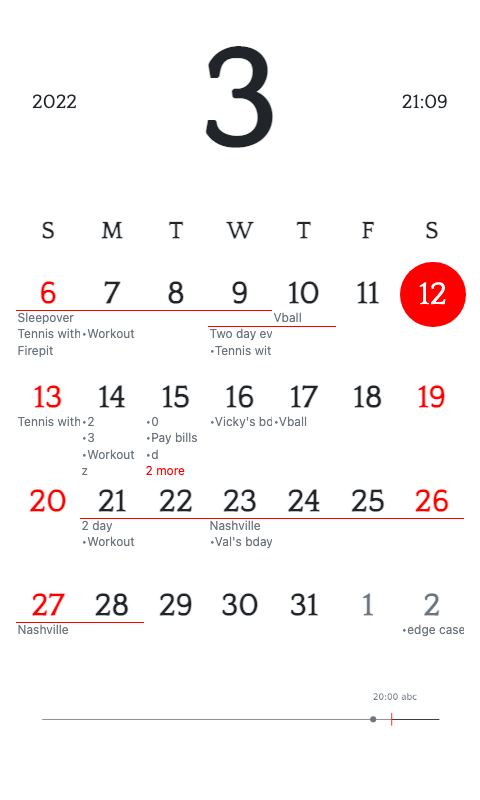
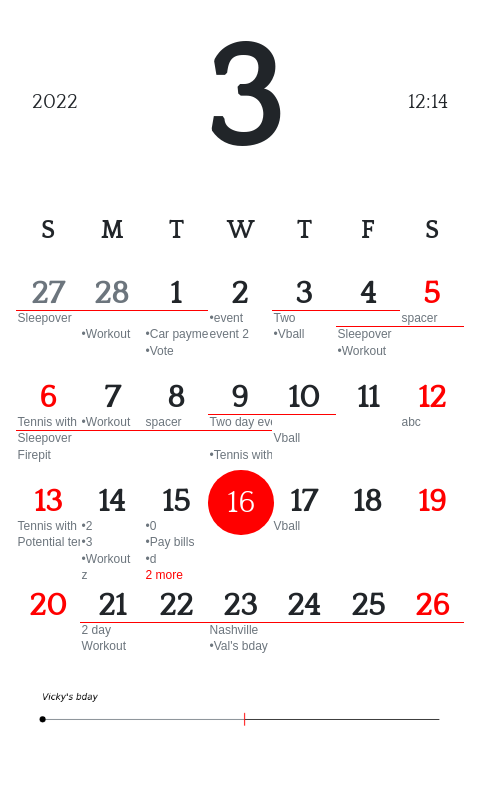
commit to small display

diff --git a/render/calendar.html b/render/calendar.html
@@ -13,7 +13,7 @@
              style="display:flex;justify-content:space-between;">
             <div class="time-info">2022</div>
             <h3 class="month font-weight-bold mb-0 text-uppercase">3</h3>
-            <div class="time-info">21:09</div>
+            <div class="time-info">12:14</div>
         </div>
         <!-- Days of week -->
         <ol class="day-names list-unstyled text-center"><li class="font-weight-bold text-uppercase">S</li>
@@ -25,33 +25,65 @@
 <li class="font-weight-bold text-uppercase">S</li>
 </ol>
         <!-- Calendar and events -->
-        <ol class="days list-unstyled"><li><div class="date" style="color:red;">6</div>
+        <ol class="days list-unstyled"><li><div class="date text-muted">27</div>
 <div class="event" style="border-top:1px solid red;">Sleepover</div>
+</li>
+<li><div class="date text-muted">28</div>
+<div class="event text-hidden" style="border-top:1px solid red;">Sleepover</div>
+<div class="event text-muted">•Workout</div>
+</li>
+<li><div class="date">1</div>
+<div class="event text-hidden" style="border-top:1px solid red;">Sleepover</div>
+<div class="event">•Car payment</div>
+<div class="event">•Vote</div>
+</li>
+<li><div class="date">2</div>
+<div class="event">•event</div>
+<div class="event">event 2</div>
+</li>
+<li><div class="date">3</div>
+<div class="event" style="border-top:1px solid red;">Two</div>
+<div class="event">•Vball</div>
+</li>
+<li><div class="date">4</div>
+<div class="event text-hidden" style="border-top:1px solid red;">Two</div>
+<div class="event" style="border-top:1px solid red;">Sleepover</div>
+<div class="event">•Workout</div>
+</li>
+<li><div class="date" style="color:red;">5</div>
+<div class="event hide-all">spacer</div>
+<div class="event text-hidden" style="border-top:1px solid red;">Sleepover</div>
+</li>
+<li><div class="date" style="color:red;">6</div>
 <div class="event">Tennis with Chloe</div>
+<div class="event" style="border-top:1px solid red;">Sleepover</div>
 <div class="event">Firepit</div>
 </li>
 <li><div class="date">7</div>
-<div class="event text-hidden" style="border-top:1px solid red;">Sleepover</div>
 <div class="event">•Workout</div>
+<div class="event text-hidden" style="border-top:1px solid red;">Sleepover</div>
 </li>
 <li><div class="date">8</div>
+<div class="event hide-all">spacer</div>
 <div class="event text-hidden" style="border-top:1px solid red;">Sleepover</div>
 </li>
 <li><div class="date">9</div>
-<div class="event text-hidden" style="border-top:1px solid red;">Sleepover</div>
 <div class="event" style="border-top:1px solid red;">Two day event</div>
+<div class="event text-hidden" style="border-top:1px solid red;">Sleepover</div>
 <div class="event">•Tennis with flake</div>
 </li>
 <li><div class="date">10</div>
-<div class="event">Vball</div>
 <div class="event text-hidden" style="border-top:1px solid red;">Two day event</div>
+<div class="event">Vball</div>
 </li>
 <li><div class="date">11</div>
 </li>
-<li><div class="datecircle">12</div>
+<li><div class="date" style="color:red;">12</div>
+<div class="event">abc</div>
 </li>
 <li><div class="date" style="color:red;">13</div>
 <div class="event">Tennis with Isaac</div>
+<div class="event">Potential tennis</div>
 </li>
 <li><div class="date">14</div>
 <div class="event">•2</div>
@@ -63,12 +95,12 @@
 <div class="event">•0</div>
 <div class="event">•Pay bills</div>
 <div class="event">•d</div>
-<div class="event" style="color:red;">2 more</li>
-<li><div class="date">16</div>
-<div class="event">•Vicky's bday</div>
+<div class="event" style="color:red;">2 more</div>
+</li>
+<li><div class="datecircle">16</div>
 </li>
 <li><div class="date">17</div>
-<div class="event">•Vball</div>
+<div class="event">Vball</div>
 </li>
 <li><div class="date">18</div>
 </li>
@@ -78,7 +110,7 @@
 </li>
 <li><div class="date">21</div>
 <div class="event" style="border-top:1px solid red;">2 day</div>
-<div class="event">•Workout</div>
+<div class="event">Workout</div>
 </li>
 <li><div class="date">22</div>
 <div class="event text-hidden" style="border-top:1px solid red;">2 day</div>
@@ -95,23 +127,6 @@
 </li>
 <li><div class="date" style="color:red;">26</div>
 <div class="event text-hidden" style="border-top:1px solid red;">Nashville</div>
-</li>
-<li><div class="date" style="color:red;">27</div>
-<div class="event" style="border-top:1px solid red;">Nashville</div>
-</li>
-<li><div class="date">28</div>
-<div class="event text-hidden" style="border-top:1px solid red;">Nashville</div>
-</li>
-<li><div class="date">29</div>
-</li>
-<li><div class="date">30</div>
-</li>
-<li><div class="date">31</div>
-</li>
-<li><div class="date text-muted">1</div>
-</li>
-<li><div class="date text-muted">2</div>
-<div class="event text-muted">•edge case</div>
 </li>
 </ol>
         <div style="height:210px;margin-top:-5rem;position:absolute;">

diff --git a/render/render.py b/render/render.py
@@ -9,15 +9,19 @@ calendar and refreshing of the eInk display. In the future, I might choose to ge
 RPi device, while using a ESP32 or PiZero purely to just retrieve the image from a file host and update the screen.
 """
 
+import datetime
 import logging
 import pathlib
 from datetime import timedelta
+from operator import itemgetter
 from time import sleep
+
+import pytz
 from PIL import Image
 from selenium import webdriver
 from selenium.webdriver.chrome.options import Options
+
 from render.timeline import Timeline
-from operator import itemgetter
 from utils.block_list import BlockList
 
 
@@ -120,18 +124,18 @@ class RenderHelper:
         return datetime_str
 
     def process_inputs(self, calDict):
-        # first setup list to represent the weeks in our calendar
-        calList = []
-        weeks_to_display = 4
-        for i in range(weeks_to_display * 7):
-            calList.append([])
-
         # retrieve calendar configuration
         maxEventsPerDay = calDict['maxEventsPerDay']
         dayOfWeekText = calDict['dayOfWeekText']
         weekStartDay = calDict['weekStartDay']
         is24hour = calDict['is24hour']
         current_time = calDict["current_time"]
+
+        # first setup list to represent the weeks in our calendar
+        calList = []
+        weeks_to_display = calDict['weeks_to_display']
+        for i in range(weeks_to_display * 7):
+            calList.append([])
 
         # for each item in the eventList, add them to the relevant day in our calendar list
         for event in calDict['events']:
@@ -184,35 +188,47 @@ class RenderHelper:
                 cal_events_text += '<li><div class="date">' + \
                                    str(dayOfMonth) + '</div>\n'
 
+            calList[i] = sorted(calList[i], key=itemgetter("summary"))
+            calList[i] = sorted(calList[i], key=itemgetter("startDatetime"))
+            calList[i] = sorted(calList[i], key=itemgetter("allday", "duration"), reverse=True)
+
+            # BAD CODE I KNOW, I'm using some arbitrary large value to guaranty
+            # that the block list doesn't go out of range
+            bl = BlockList(len(calList[i]) * 100, {
+                "summary": "spacer",
+                "startDatetime": datetime.datetime.now().astimezone(pytz.utc),
+                "allday": False,
+                "duration": None,
+                "hide": "all",
+                "spacer": True
+            })
+            # BAD CODE
+
+            previous_event_summaries = [e["summary"] for e in calList[i - 1]]
+            for idx, event in enumerate(calList[i]):
+                if event.get("isMultiday") and event["summary"] in previous_event_summaries:
+                    lane = previous_event_summaries.index(event["summary"])
+                    bl.hold_index(lane, event)
+                    calList[i][idx] = None
+
+            for e in [e for e in calList[i] if e is not None]:
+                bl.fill(e)
+
+            calList[i] = bl.to_list()
+
             for j in range(min(len(calList[i]), maxEventsPerDay)):
-
-                calList[i] = sorted(calList[i], key=itemgetter("summary"))
-                calList[i] = sorted(calList[i], key=itemgetter("startDatetime"))
-                calList[i] = sorted(calList[i], key=itemgetter("allday", "duration"), reverse=True)
-
-                bl = BlockList(len(calList[i]))
-                event_summaries = [e["summary"] for e in calList[i - 1]]
-                for idx, event in enumerate(calList[i]):
-                    if event["summary"] in event_summaries and event["isMultiday"]:
-                        lane = event_summaries.index(event["summary"])
-                        bl.hold_index(lane, event)
-                        calList[i].pop(idx)
-
-                for e in calList[i]:
-                    bl.fill(e)
-
-                calList[i] = bl.to_list()
 
                 event = calList[i][j]
 
                 cal_events_text += '<div class="event'
-                if event['isUpdated']:
-                    cal_events_text += ' text-danger'
-                if event.get("hide"):
-                    cal_events_text += ' text-hidden'
+                if "hide" in event:
+                    if event["hide"] == "all":
+                        cal_events_text += ' hide-all'
+                    elif event["hide"] == "text":
+                        cal_events_text += ' text-hidden'
                 elif currDate.month != calDict['today'].month:
                     cal_events_text += ' text-muted'
-                if event['isMultiday']:
+                if event.get('isMultiday') and not event.get("spacer"):
                     if event['startDatetime'].date() == currDate:
                         cal_events_text += f'" style="border-top:1px solid red;">{event["summary"]}'
                 elif event['allday']:
@@ -225,7 +241,7 @@ class RenderHelper:
                 cal_events_text += f"""<div class="event">{calList[i][-1]['summary']}</div>\n"""
             elif len(calList[i]) > maxEventsPerDay + 1:
                 cal_events_text += '<div class="event" style="color:red;">' + str(
-                    len(calList[i]) - maxEventsPerDay) + ' more'
+                    len(calList[i]) - maxEventsPerDay) + ' more</div>\n'
 
             cal_events_text += '</li>\n'
 

diff --git a/maginkcal.py b/maginkcal.py
@@ -53,6 +53,7 @@ def main():
     rotateAngle = config['rotateAngle']
     calendars = config['calendars']  # Google calendar ids
     is24hour = config['is24h']  # set 24 hour time
+    weeks_to_display = config["weeks_to_display"]  # num of weeks to display after the previous sunday of the month
 
     # Create and configure logger
     logging.basicConfig(filename="logfile.log",
@@ -73,9 +74,14 @@ def main():
         current_time = currDatetime.strftime("%H:%M")
         logger.info("Time synchronised to {}".format(currDatetime))
         currDate = currDatetime.date()
-        calStartDate = currDate - \
-                       dt.timedelta(days=((currDate.weekday() + (7 - weekStartDay)) % 7))
-        calEndDate = calStartDate + dt.timedelta(days=(4 * 7 - 1))
+        current_month_date = dt.datetime(currDate.year, currDate.month, 1).date()
+        calStartDate = current_month_date - dt.timedelta(days=((current_month_date.weekday() + (7 - weekStartDay)) % 7))
+        calEndDate = calStartDate + dt.timedelta(days=(weeks_to_display * 7 - 1))
+
+        # Dates used for testing ##########################
+        # calStartDate = dt.datetime(2022, 3, 27).date()  #
+        # calEndDate = dt.datetime(2022, 4, 30).date()    #
+        ###################################################
         calStartDatetime = displayTZ.localize(
             dt.datetime.combine(calStartDate, dt.datetime.min.time()))
         calEndDatetime = displayTZ.localize(
@@ -96,10 +102,11 @@ def main():
                     str(dt.datetime.now() - start))
 
         # Populate dictionary with information to be rendered on e-ink display
-        calDict = {'events': enumerated_event_list, 'calStartDate': calStartDate, 'calEndDate': calEndDate, 'today': currDate, 'lastRefresh': currDatetime,
+        calDict = {'events': enumerated_event_list, 'calStartDate': calStartDate, 'calEndDate': calEndDate,
+                   'today': currDate, 'lastRefresh': currDatetime,
                    'batteryDisplayMode': batteryDisplayMode,
                    'dayOfWeekText': dayOfWeekText, 'weekStartDay': weekStartDay, 'maxEventsPerDay': maxEventsPerDay,
-                   'is24hour': is24hour, "current_time": current_time}
+                   'is24hour': is24hour, "current_time": current_time, "weeks_to_display": weeks_to_display}
         renderService = RenderHelper(imageWidth, imageHeight, rotateAngle)
         calBlackImage, calRedImage = renderService.process_inputs(calDict)
 

diff --git a/utils/block_list.py b/utils/block_list.py
@@ -1,6 +1,7 @@
 class BlockList:
-    def __init__(self, num_elements):
-        self.block_list = [None] * num_elements
+    def __init__(self, num_elements, none_element):
+        self.none_element = none_element
+        self.block_list = [none_element] * num_elements
 
     def hold_index(self, i, e):
         self.block_list[i] = e
@@ -8,28 +9,36 @@ class BlockList:
 
     def fill(self, e):
         for idx in range(len(self.block_list)):
-            if self.block_list[idx] is None:
+            if self.block_list[idx] is self.none_element:
                 self.block_list[idx] = e
                 return self.block_list
 
     def to_list(self):
+        if not self.block_list:
+            return self.block_list
+        while self.block_list[-1] == self.none_element:
+            self.block_list.pop()
         return self.block_list
 
 
 class TestBlockList:
-    def test_initial_block_list_is_all_empty(self):
-        assert BlockList(3).to_list() == [None, None, None]
-
     def test_fill_empty_block_list(self):
-        bl = BlockList(3)
+        bl = BlockList(3, None)
         bl.fill(1)
         bl.fill(2)
         bl.fill(3)
         assert bl.to_list() == [1, 2, 3]
 
     def test_hold_index_and_fill(self):
-        bl = BlockList(3)
+        bl = BlockList(3, None)
         bl.hold_index(1, 99)
         bl.fill(1)
         bl.fill(1)
         assert bl.to_list() == [1, 99, 1]
+
+    def test_trailing_none_element(self):
+        bl = BlockList(6, None)
+        bl.fill(3)
+        bl.fill(2)
+        bl.fill(1)
+        assert bl.to_list() == [3, 2, 1]

diff --git a/utils/date_parse.py b/utils/date_parse.py
@@ -32,7 +32,7 @@ def enumerate_multiday_event(event_list: list) -> list:
                     "isMultiday": True,
                     "isUpdated": event["isUpdated"],
                     "allday": event["allday"],
-                    "hide": True,
+                    "hide": "text",
                     "duration": duration
                 }
                 last_date = date
@@ -46,7 +46,7 @@ def enumerate_multiday_event(event_list: list) -> list:
                     "isMultiday": True,
                     "isUpdated": event["isUpdated"],
                     "allday": event["allday"],
-                    "hide": True,
+                    "hide": "text",
                     "duration": duration
                 }
                 enumerated_event_list.append(enumerated_event)

diff --git a/README.md b/README.md
@@ -7,7 +7,9 @@
 - [x] if current day of multiday event is between the start and end day, event does not show up on timeline
 - [x] Fix ordering of multiday events in calendar view
 - [x] If four events in a day, don't show 3 events and a 1more event overflow, display all 4 instead
-
+- [ ] If multiday event is on maxevents + 1 of previous, the current event gets displayed on the maxevent + 1 line
+- [ ] If multiday event spans across weeks, it takes the lane of the previous week, which isn't consistent with how gcal
+  handles it
 ## UI
 
 ### Calendar
@@ -18,6 +20,10 @@
 - [x] multiday line in red
 - [x] show event label again on new week start for continuity
 - [x] bullet point is all day event indicator for single day
+- [ ] fix year and time margins
+- [ ] match weekday font size to calendary number days font size
+- [ ] gap between multiday events that end and start consecutively 
+- [ ] bullet point to be red
 - [ ] increase width between columns
 - [ ] noto serif
 - [ ] roboto slab
